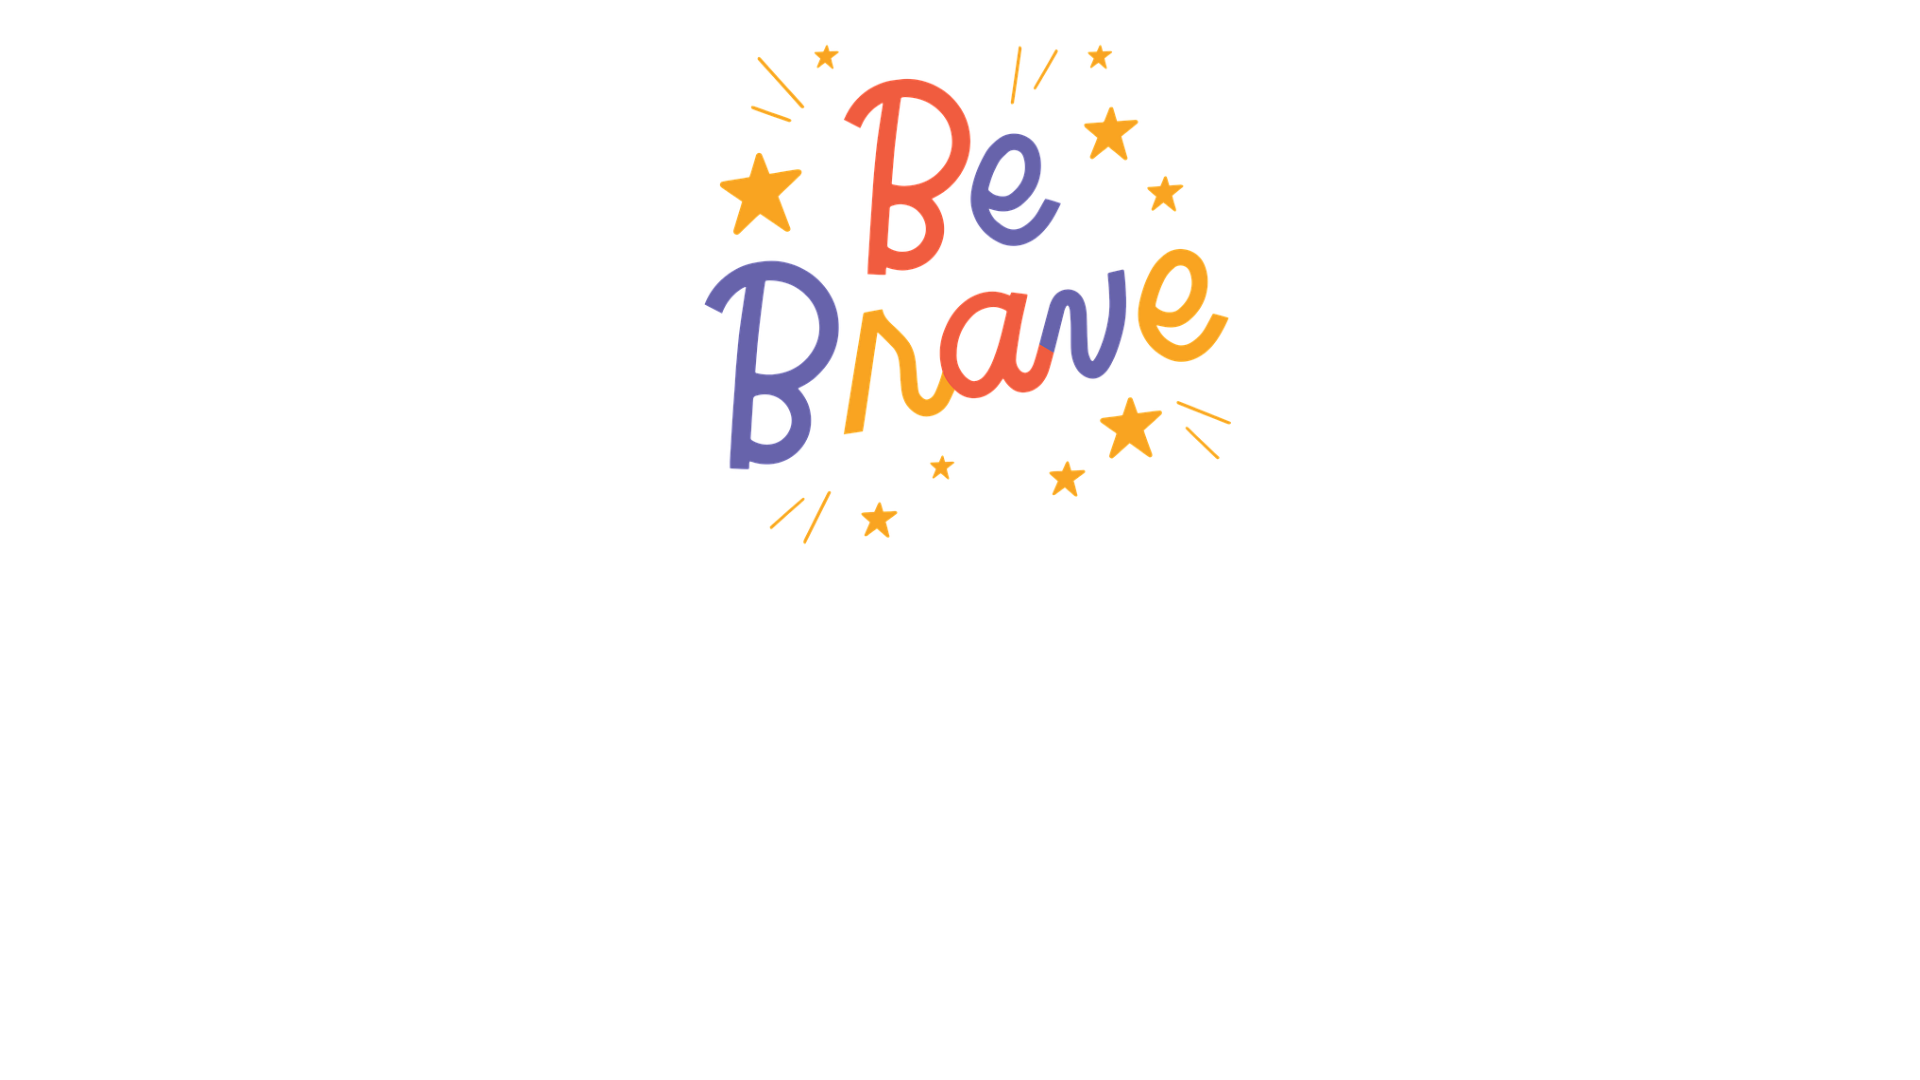
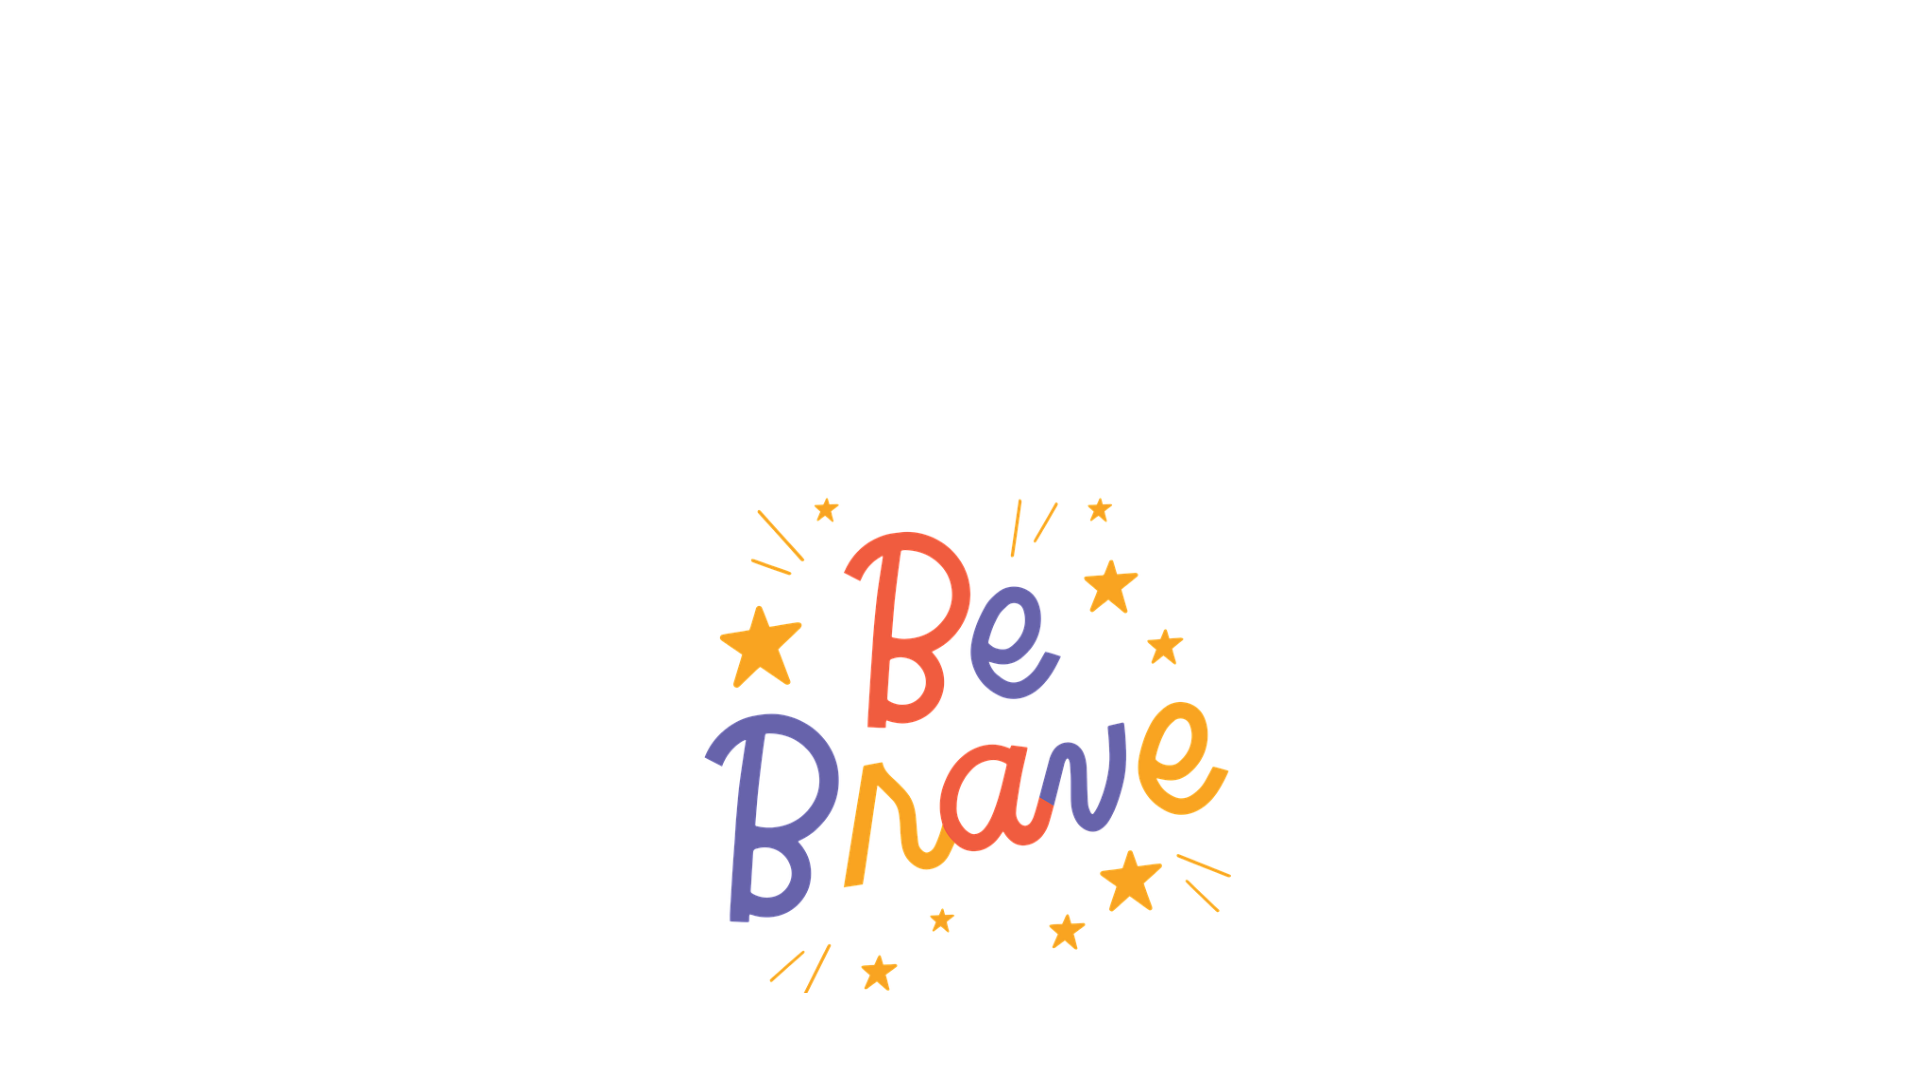
feat: 更新图标

diff --git a/newtab.html b/newtab.html
@@ -5,6 +5,7 @@
     <meta charset="UTF-8">
     <meta name="viewport" content="width=device-width, initial-scale=1.0">
     <title>Eye - 新标签页</title>
+    <link rel="shortcut icon" href="img/ico/default/icon_v2.ico">
     <link rel="stylesheet" type="text/css" href="styles.css"/>
 </head>
 
